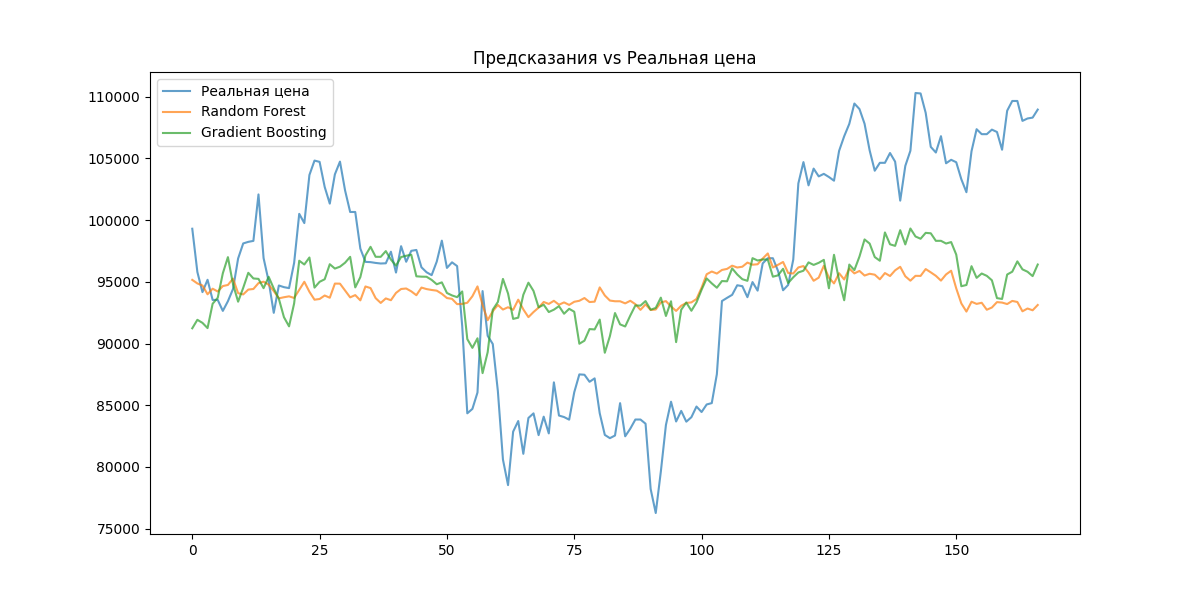
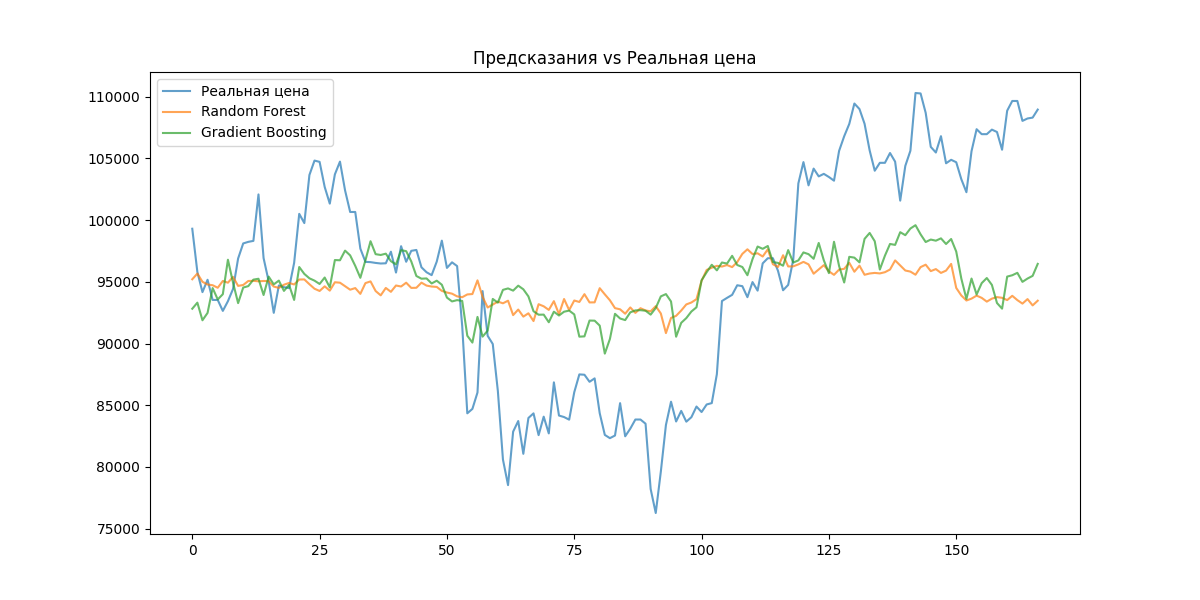
клоузы стали самыми главными :(

Changed region(s): [[0.1542, 0.39, 0.5858, 0.6], [0.5858, 0.36, 0.8633, 0.54]]

diff --git a/ml.py b/ml.py
@@ -39,7 +39,7 @@ df['close_change'] = df['close'].pct_change(2)  # Изменение за 2 дн
 df['close_change'] = df['close'].pct_change(3)  # Изменение за 3 дня
 
 # Создание лаговых features (ТОЛЬКО на исторических данных)
-features_to_lag = ['close_change', 'volume','rsi', 'MACD_Cross_Power_Normalized', 'hash-rate',
+features_to_lag = ['close_change', 'volume','rsi', 'MACD_Cross_Power_Normalized', 'hash-rate', 'close',
                    'active-count', 'total_fee', 'transfer_count', 'yuan', 'zew_state', 'zew_mood_index']
 df = create_lag_features(df, features_to_lag, n_lags=7)
 
@@ -69,10 +69,11 @@ print(f"Пример: date={df.iloc[0]['date']}, close={df.iloc[0]['close']}, ta
 selected_features = [
     # Только лаговые features и исторические данные!
     'zew_mood_index_lag_1', 'zew_mood_index_lag_2', 'zew_mood_index_lag_3',
-    'active-count_lag_1', 'active-count_lag_2',
-        'active-count_lag_3', 'active-count_lag_4', 'active-count_lag_5',
+    'active-count_lag_2',
+        'active-count_lag_4', 'active-count_lag_5',
     'total_fee_lag_1', 'total_fee_lag_2', #'total_fee_lag_3',
     'transfer_count_lag_1', 'transfer_count_lag_3',  'transfer_count_lag_5',
+    'close_lag_1', 'close_lag_3', #'close_lag_4', 'close_lag_5',
     'close_change_lag_1', 'close_change_lag_2',
     'volume_lag_1', 'volume_lag_2', 'volume_lag_3',
     'hash-rate_lag_1', 'hash-rate_lag_2', 'hash-rate_lag_3',
